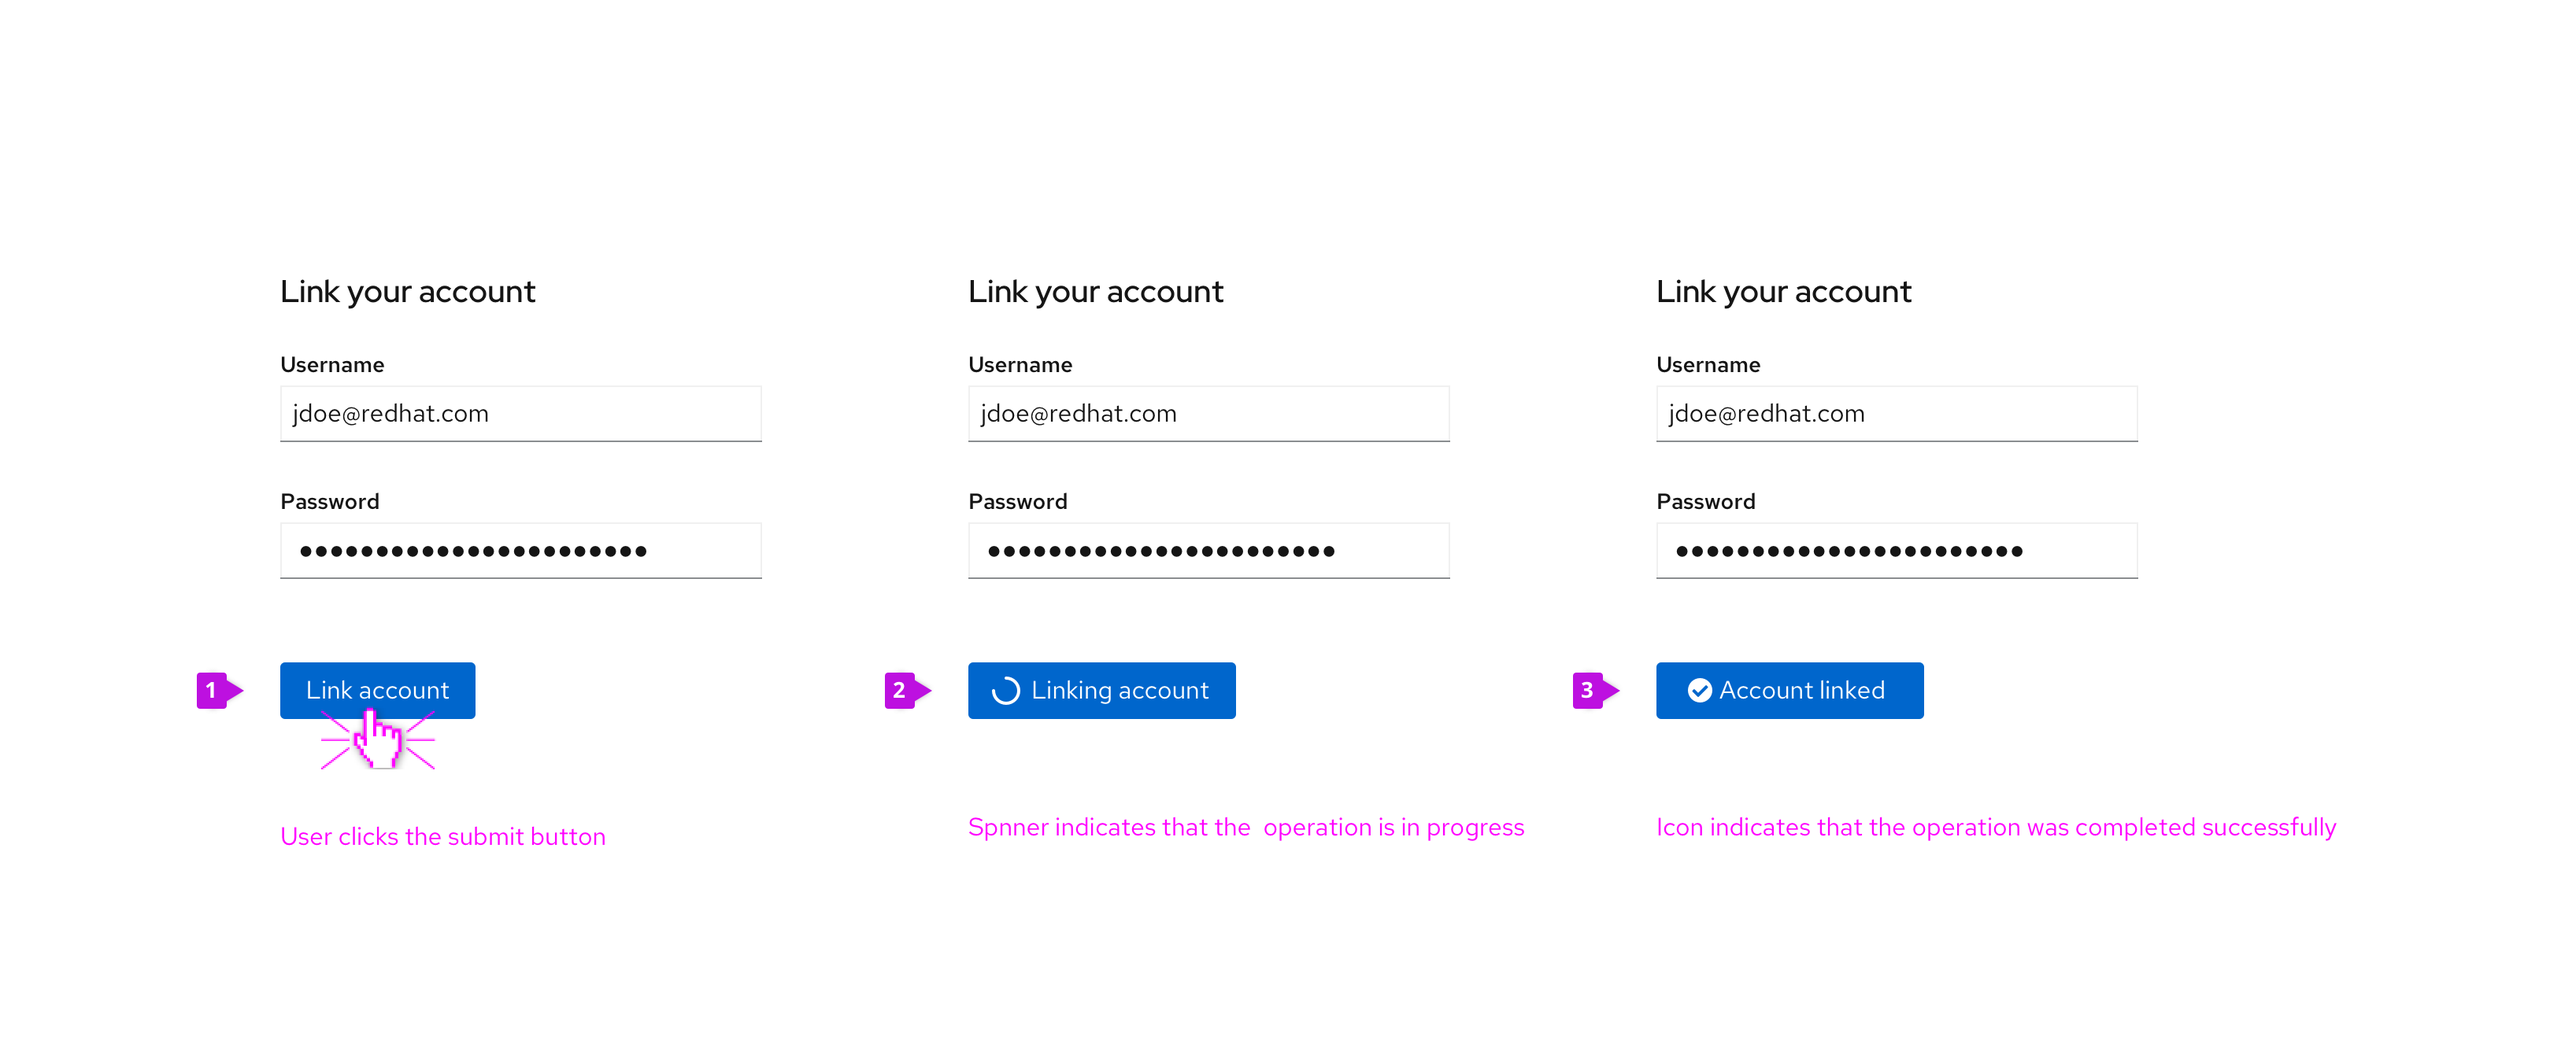
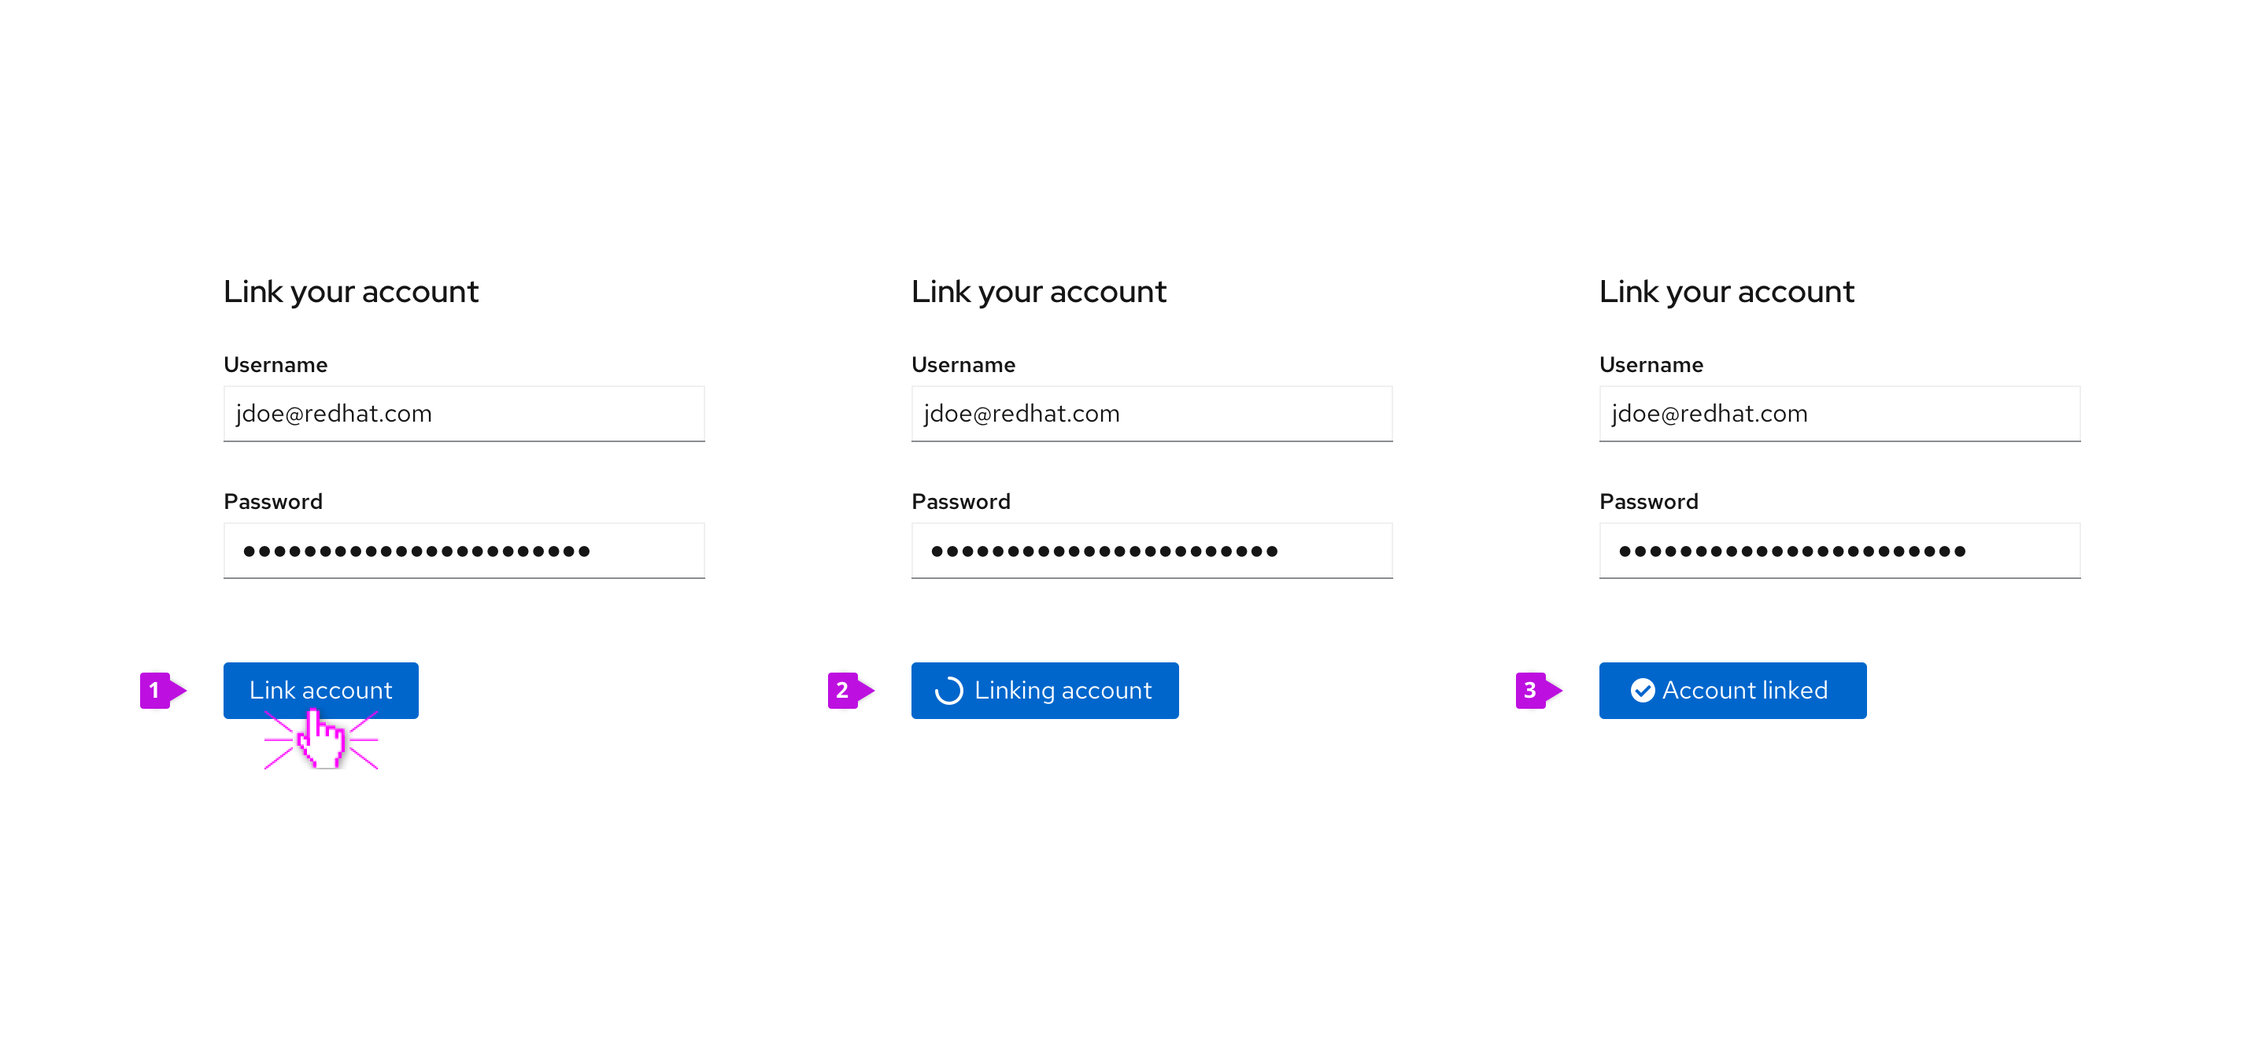
Make image even smaller

diff --git a/packages/v4/src/content/design-guidelines/components/button/button.md b/packages/v4/src/content/design-guidelines/components/button/button.md
@@ -105,7 +105,7 @@ A progress button can be used to provide the user with feedback that an action i
 
 _Example of using a progress button_
 
-<img src="./img/progress-button.png" alt="Example of progress button usage" width="1636"/>
+<img src="./img/progress-button.png" alt="Example of progress button usage" width="1435"/>
 
 1. The user clicks the submit button.
 
